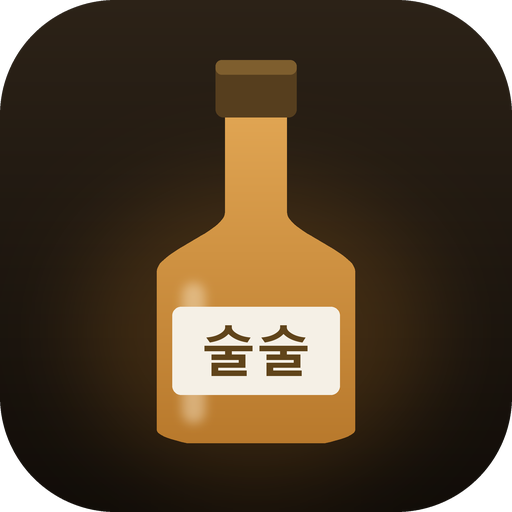
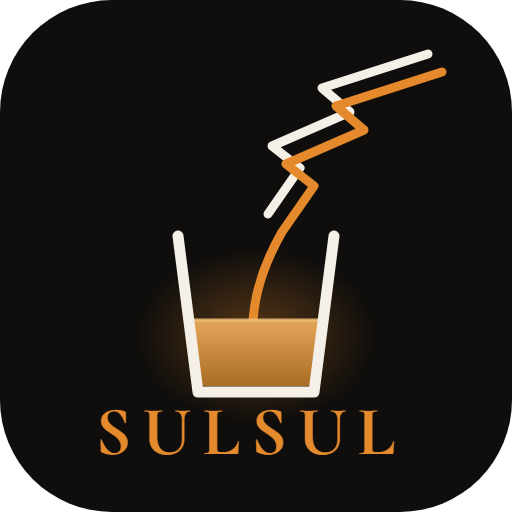
아이콘을 잔·따르는 선 그림 + SULSUL 워드마크로 새로 그림
사용자가 준 참고 이미지의 느낌 — 검정 배경, 유리잔 선 그림, 각진 리본으로
따르는 술 — 을 원본 그대로 베끼지 않고 같은 결로 다시 그렸다.
아래 글자는 WHISKEY 대신 SULSUL.

워드마크는 앱 안의 워드마크와 같은 Cormorant Garamond 를 쓴다. 빌드할 때
index.html 의 @font-face 를 정규식으로 들어내 심으므로 서체가 어긋날 수 없다.

Python·Pillow 가 없는 PC 라 tools-make-icon.py 를 돌릴 수 없다. 대신
tools-icon.html(SVG 소스) + tools-make-icon.ps1(헤드리스 크롬) 로 옮겼다.
크롬은 헤드리스 최소 창 폭이 있어 전부 512 CSS px 로 그린 뒤
--force-device-scale-factor 로 줄인다(축소가 안티에일리어싱을 준다).
py 는 옛 병 아이콘을 그리므로 실행 금지 경고를 머리말에 달아 남겨 뒀다.

실행 화면 5종도 같이 다시 만들었다 — 아이콘이 그림으로 박혀 있어서
아이콘만 바꾸면 홈 화면과 실행 화면이 서로 다른 아이콘을 보여 준다.

배경은 전면 그라디언트가 아니라 평면이다. 그라디언트로 처음 만들었더니
icon-512.png 이 150KB 가 됐다(옛 파일 40KB) — PNG 는 모든 픽셀이 다른
그라디언트를 줄이지 못한다. 평면 + 국소 발광으로 바꿔 아이콘 6종 합계가
오히려 114KB → 90KB 가 됐다.

검증 — 6종의 실제 픽셀 크기(512/192/512/192/180/64)와 모서리 알파(둥근 것은 0,
maskable·apple-touch 는 255)를 확인했고, 스플래시 5종은 index.html 의
media 쿼리와 픽셀이 정확히 일치한다(1170x2532 / 1179x2556 / 1206x2622 /
1290x2796 / 1536x2048). 브라우저에서 11개 전부 200 + 크기 확인. 셸 v34.
저장소의 생성기를 다시 돌려 바이트가 동일한지도 확인했다(재현 가능).

diff --git a/tools-icon.html b/tools-icon.html
@@ -1,0 +1,57 @@
+<meta charset="utf-8">
+<style>
+/*FONTFACE*/
+html,body{margin:0;padding:0;background:transparent}
+svg{display:block}
+</style>
+<svg viewBox="0 0 512 512" width="512" height="512" xmlns="http://www.w3.org/2000/svg">
+  <defs>
+    <!-- Flat base, not a full-canvas radial. A radial across every pixel is what made
+         icon-512.png 150KB against the old 40KB — PNG cannot run-length a gradient.
+         Flat + one localised glow keeps most of the canvas identical, and it is also
+         closer to the reference, which is essentially black. -->
+    <radialGradient id="glass-lit" cx="50%" cy="62%" r="46%">
+      <stop offset="0"   stop-color="#1E1A16"/>
+      <stop offset="1"   stop-color="#100E0C"/>
+    </radialGradient>
+    <linearGradient id="liq" x1="0" y1="0" x2="0" y2="1">
+      <stop offset="0" stop-color="#E3A659"/>
+      <stop offset="1" stop-color="#A96C24"/>
+    </linearGradient>
+    <radialGradient id="glow" cx="50%" cy="50%" r="50%">
+      <stop offset="0"   stop-color="#E4892C" stop-opacity=".34"/>
+      <stop offset="1"   stop-color="#E4892C" stop-opacity="0"/>
+    </radialGradient>
+  </defs>
+
+  <rect width="512" height="512" rx="__RADIUS__" fill="#100E0C"/>
+
+  <!-- __DY__ recentres the artwork when the wordmark is dropped (favicon), so the
+       ribbon does not graze the rounded corner. -->
+  <g transform="translate(256 __DY__) scale(__SCALE__) translate(-256 -256)">
+    <!-- warm pool of light behind the glass, kept small so most of the canvas stays flat -->
+    <ellipse cx="256" cy="336" rx="118" ry="86" fill="url(#glow)"/>
+
+    <!-- The two ribbons share one zigzag, offset by a constant (14,18); drawing them
+         from independent point lists made them cross and read as tangled.
+         Cream stops above the mouth, amber carries on down into the whisky. -->
+    <path d="M 428 54 L 322 88 L 350 112 L 272 146 L 300 168 L 268 214"
+          fill="none" stroke="#F5F0E7" stroke-width="9"
+          stroke-linecap="round" stroke-linejoin="round"/>
+    <path d="M 442 72 L 336 106 L 364 130 L 286 164 L 314 186 L 282 232
+             C 258 274 249 312 254 350"
+          fill="none" stroke="#E4892C" stroke-width="9"
+          stroke-linecap="round" stroke-linejoin="round"/>
+
+    <!-- whisky in the glass. inset from the walls so the stroke stays readable -->
+    <path d="M 192 320 L 320 320 L 313 380 Q 312 386 306 386 L 206 386 Q 200 386 199 380 Z"
+          fill="url(#liq)"/>
+    <line x1="193" y1="320" x2="319" y2="320" stroke="#F0C079" stroke-width="3" opacity=".85"/>
+
+    <!-- the glass: open top, straight line art -->
+    <path d="M 178 236 L 198 392 L 314 392 L 334 236"
+          fill="none" stroke="#F5F0E7" stroke-width="11"
+          stroke-linecap="round" stroke-linejoin="round"/>
+    __TEXT__
+  </g>
+</svg>

diff --git a/index.html b/index.html
@@ -1194,6 +1194,7 @@ const LS_VER = 'wc.ver';       // 마지막으로 이력을 확인한 버전
 const APP_VER = '1.2.1';
 const CHANGES = [
   { v: '1.2.1', d: '2026-08-07', items: [
+    '앱 아이콘을 새로 그렸습니다 — 잔에 위스키를 따르는 선 그림과 SULSUL 워드마크. 실행 화면도 함께 바꿨습니다',
     '폰에서 추가·편집 창이 자판에 덮이지 않습니다 — 창이 자판 위로 올라오고, 누른 칸이 보이는 자리로 따라옵니다',
     '목록을 끝까지 넘겼을 때 화면이 따라 흔들리던 것을 막았습니다',
     '시음 기록의 향·맛·여운 슬라이더가 70에서 시작합니다 (0에서 매번 끌어올리지 않도록)',

diff --git a/sw.js b/sw.js
@@ -1,6 +1,6 @@
 /* Sulsul Diary(술술다이어리) — Service Worker
    앱 셸: stale-while-revalidate / 외부 병 사진: cache-first(런타임 캐시) */
-const V = 'wc-shell-v33';
+const V = 'wc-shell-v34';
 const IMG = 'wc-img-v2';    // 일반 표시용 (no-cors, opaque 허용)
 const IMGC = 'wc-imgc-v2';  // CORS 요청용 — 캔버스 정규화에 쓰이므로 opaque를 섞으면 안 됨
 const SHELL = [

diff --git a/tools-make-icon.py b/tools-make-icon.py
@@ -1,5 +1,18 @@
 # -*- coding: utf-8 -*-
-"""술술다이어리 앱 아이콘 생성기.
+"""술술다이어리 앱 아이콘 생성기 — 구버전. 실행하지 마라.
+
+⚠ 이 스크립트는 **옛 '술술' 위스키병 아이콘**을 그린다. 지금 쓰는 아이콘은
+   유리잔 라인아트 + `SULSUL` 워드마크이고, 그 소스는 `tools-icon.html` 이며
+   생성기는 `tools-make-icon.ps1` 이다. 이것을 돌리면 현재 아이콘을 옛 디자인으로
+   **덮어쓴다.** 참고용으로만 남겨 둔다 (Pillow 로 병 실루엣을 그리는 방식).
+
+   아이콘을 다시 만들 때:
+     powershell -NoProfile -ExecutionPolicy Bypass -File tools-make-icon.ps1
+     powershell -NoProfile -ExecutionPolicy Bypass -File tools-make-splash.ps1
+
+   아래는 옛 버전의 원문이다.
+─────────────────────────────────────────────────────────────────────────
+술술다이어리 앱 아이콘 생성기.
 
 원칙
 - 48px 런처에서는 글자가 아니라 **실루엣**이 앱을 구분한다. 병 모양을 크게 잡고,

diff --git a/CHANGELOG.md b/CHANGELOG.md
@@ -12,6 +12,17 @@
 
 ## v1.2.1 — 2026-08-07
 
+### 바뀜 (모양)
+- **앱 아이콘을 새로 그렸다.** '술술' 위스키병 → **잔에 위스키를 따르는 선 그림**과
+  `SULSUL` 워드마크. 배경은 평면 검정이고 잔 뒤에만 따뜻한 빛을 둔다.
+  워드마크는 앱 안의 워드마크와 **같은 서체**(Cormorant Garamond)를 쓴다 — 빌드할 때
+  `index.html` 의 `@font-face` 를 그대로 들어내 심으므로 둘이 어긋날 수 없다.
+- **실행 화면(iOS launch image) 5종도 다시 만들었다.** 실행 화면에는 아이콘이 그림으로
+  박혀 있어서 아이콘만 바꾸면 홈 화면과 실행 화면의 아이콘이 서로 달라진다.
+- 아이콘 6종 합계가 오히려 **114KB → 90KB** 로 줄었다. 배경을 전면 그라디언트에서
+  평면으로 바꾼 결과다(그라디언트는 모든 픽셀이 달라 PNG 가 줄이지 못한다 —
+  전면 그라디언트일 때 `icon-512.png` 하나가 150KB 였다).
+
 ### 고침
 - **폰에서 추가·편집 창이 자판에 덮이던 문제.** v1.1.0 에서 `visualViewport` 높이를
   `--vvh` 로 넘겨 시트 **높이**를 줄여 놨지만, 그것만으로는 부족했다.
